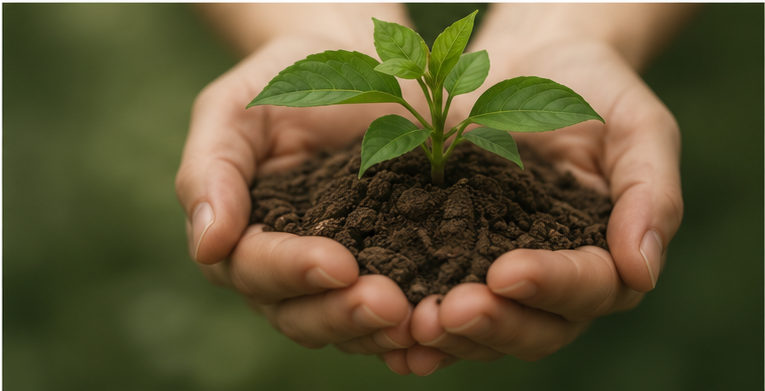
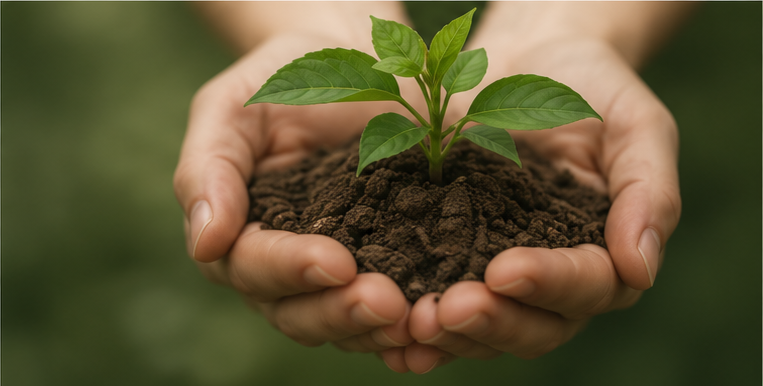
fix(site): 프로그램 카드 사진 프레임과 여백 정리
맞춤 여정 섹션의 중첩 테두리를 제거하고 손·흙 이미지의 내장 여백을 잘라낸다.

diff --git a/js/sections/home.js b/js/sections/home.js
@@ -331,12 +331,10 @@ function renderHome() {
 
                             <div class="mt-8 grid gap-4 sm:grid-cols-2 xl:grid-cols-4">
                                 ${programCards.map((card) => `
-                                    <article class="group flex min-h-[24rem] flex-col rounded-2xl border border-er-sand bg-[#fbf8f1] p-4 shadow-[0_14px_40px_rgba(94,77,47,0.06)] transition-all duration-300 hover:-translate-y-1 hover:shadow-[0_18px_50px_rgba(94,77,47,0.11)]">
-                                        <div class="rounded-2xl bg-[#f0eadf] p-2 ring-1 ring-[#e5dac8]">
-                                            <div class="relative aspect-[1.45] overflow-hidden rounded-xl bg-[#e8dfd1]">
-                                                <img src="${card.image}" alt="" class="h-full w-full object-cover transition-transform duration-500 group-hover:scale-[1.035]" style="object-position:${card.position}; filter:saturate(0.95) brightness(1.08);">
-                                                <span class="absolute left-3 top-3 rounded-full bg-er-green px-3 py-1 text-[10px] font-black text-er-surface shadow-sm">${card.badge}</span>
-                                            </div>
+                                    <article class="group flex min-h-[24rem] flex-col rounded-2xl border border-er-sand/60 bg-er-surface p-4 shadow-[0_14px_40px_rgba(94,77,47,0.06)] transition-all duration-300 hover:-translate-y-1 hover:shadow-[0_18px_50px_rgba(94,77,47,0.11)]">
+                                        <div class="relative aspect-[1.45] overflow-hidden rounded-[1.15rem] bg-er-greenTint">
+                                            <img src="${card.image}" alt="" class="h-full w-full object-cover transition-transform duration-500 group-hover:scale-[1.035]" style="object-position:${card.position}; filter:saturate(0.95) brightness(1.08);">
+                                            <span class="absolute left-3 top-3 rounded-full bg-er-green px-3 py-1 text-[10px] font-black text-er-surface shadow-sm">${card.badge}</span>
                                         </div>
                                         <div class="flex flex-1 flex-col pt-5">
                                             <h3 class="text-[1.05rem] font-black leading-snug tracking-[-0.01em] text-er-inkSoft break-keep">${card.title}</h3>

diff --git a/index.html b/index.html
@@ -736,7 +736,7 @@
     <script src="js/program-catalog.js?v=20260621a"></script>
     <script src="js/basic-course-promo.js?v=20260611c"></script>
     <script src="js/parents-workshop-promo.js?v=20260526b"></script>
-    <script src="js/sections/home.js?v=20260713a"></script>
+    <script src="js/sections/home.js?v=20260713b"></script>
     <script src="js/sections/about.js?v=20260713a"></script>
     <script src="js/sections/programs.js?v=20260612a"></script>
     <script src="js/sections/parenting.js?v=20260625a"></script>
